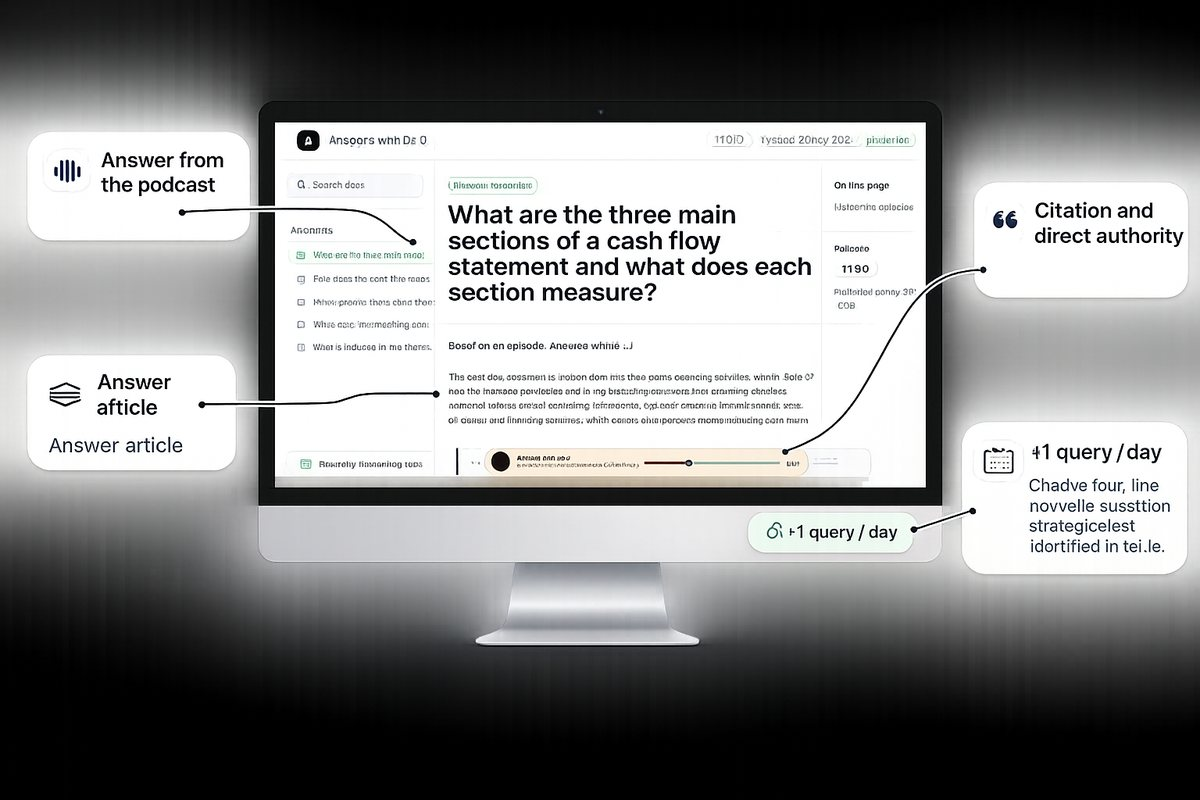
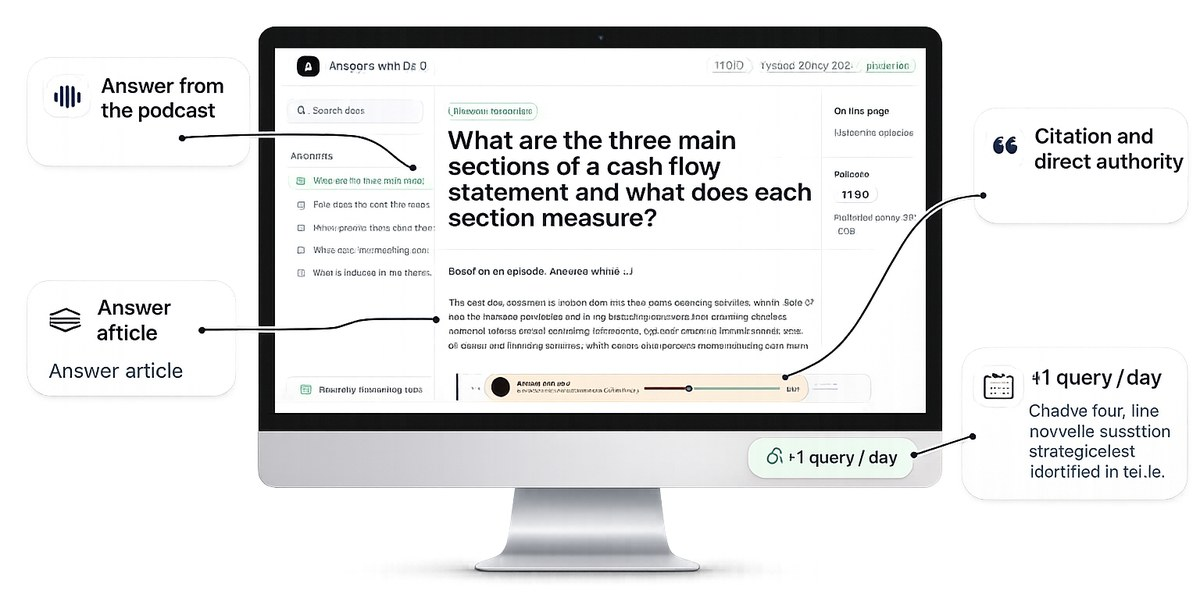
Pilote : mockup de l'Index sur fond blanc (page de vente)
Claude-Session: https://claude.ai/code/session_014vTPnc1nDGRRxcL4of4me5

diff --git a/automation/offre/index.html b/automation/offre/index.html
@@ -43,7 +43,7 @@ section{padding:70px 0;border-top:1px solid var(--line)}
 .price{max-width:520px;margin:0 auto;border:1px solid var(--line);border-radius:26px;padding:38px 30px;text-align:center;background:#fff;box-shadow:0 14px 44px rgba(10,10,10,.06)}
 .pgrid{display:grid;grid-template-columns:minmax(0,480px) minmax(0,1fr);gap:30px;align-items:center;max-width:1100px;margin:0 auto}
 .pgrid .price{max-width:none;margin:0}
-.shot{margin:0;border-radius:24px;overflow:hidden;background:#000;box-shadow:0 14px 44px rgba(10,10,10,.12)}.shot img{display:block;width:100%;height:auto}
+.shot{margin:0;background:#fff}.shot img{display:block;width:100%;height:auto}
 .was{color:var(--mut);font-size:17px;margin-bottom:4px}.was s{text-decoration-thickness:2px}
 .fine{color:var(--mut);font-size:13.5px;line-height:1.5;margin-top:16px}
 .name{font-weight:600;color:var(--mut);margin-bottom:6px}
@@ -138,7 +138,7 @@ details p{margin:10px 0 0;color:var(--mut);font-size:15.5px}
     <div class="fine" data-t="p_fine"></div>
     <div class="alt"><a id="mail" href="#" data-t="pr_alt"></a></div>
   </div>
-  <figure class="shot rv"><img src="mockup-hub.jpg" alt="Example of a podcast Index: one answer page per question asked in your episodes" loading="lazy" width="1200" height="800"></figure>
+  <figure class="shot rv"><img src="mockup-hub.jpg" alt="Example of a podcast Index: one answer page per question asked in your episodes" loading="lazy" width="1200" height="605"></figure>
   </div>
 </section>
 
